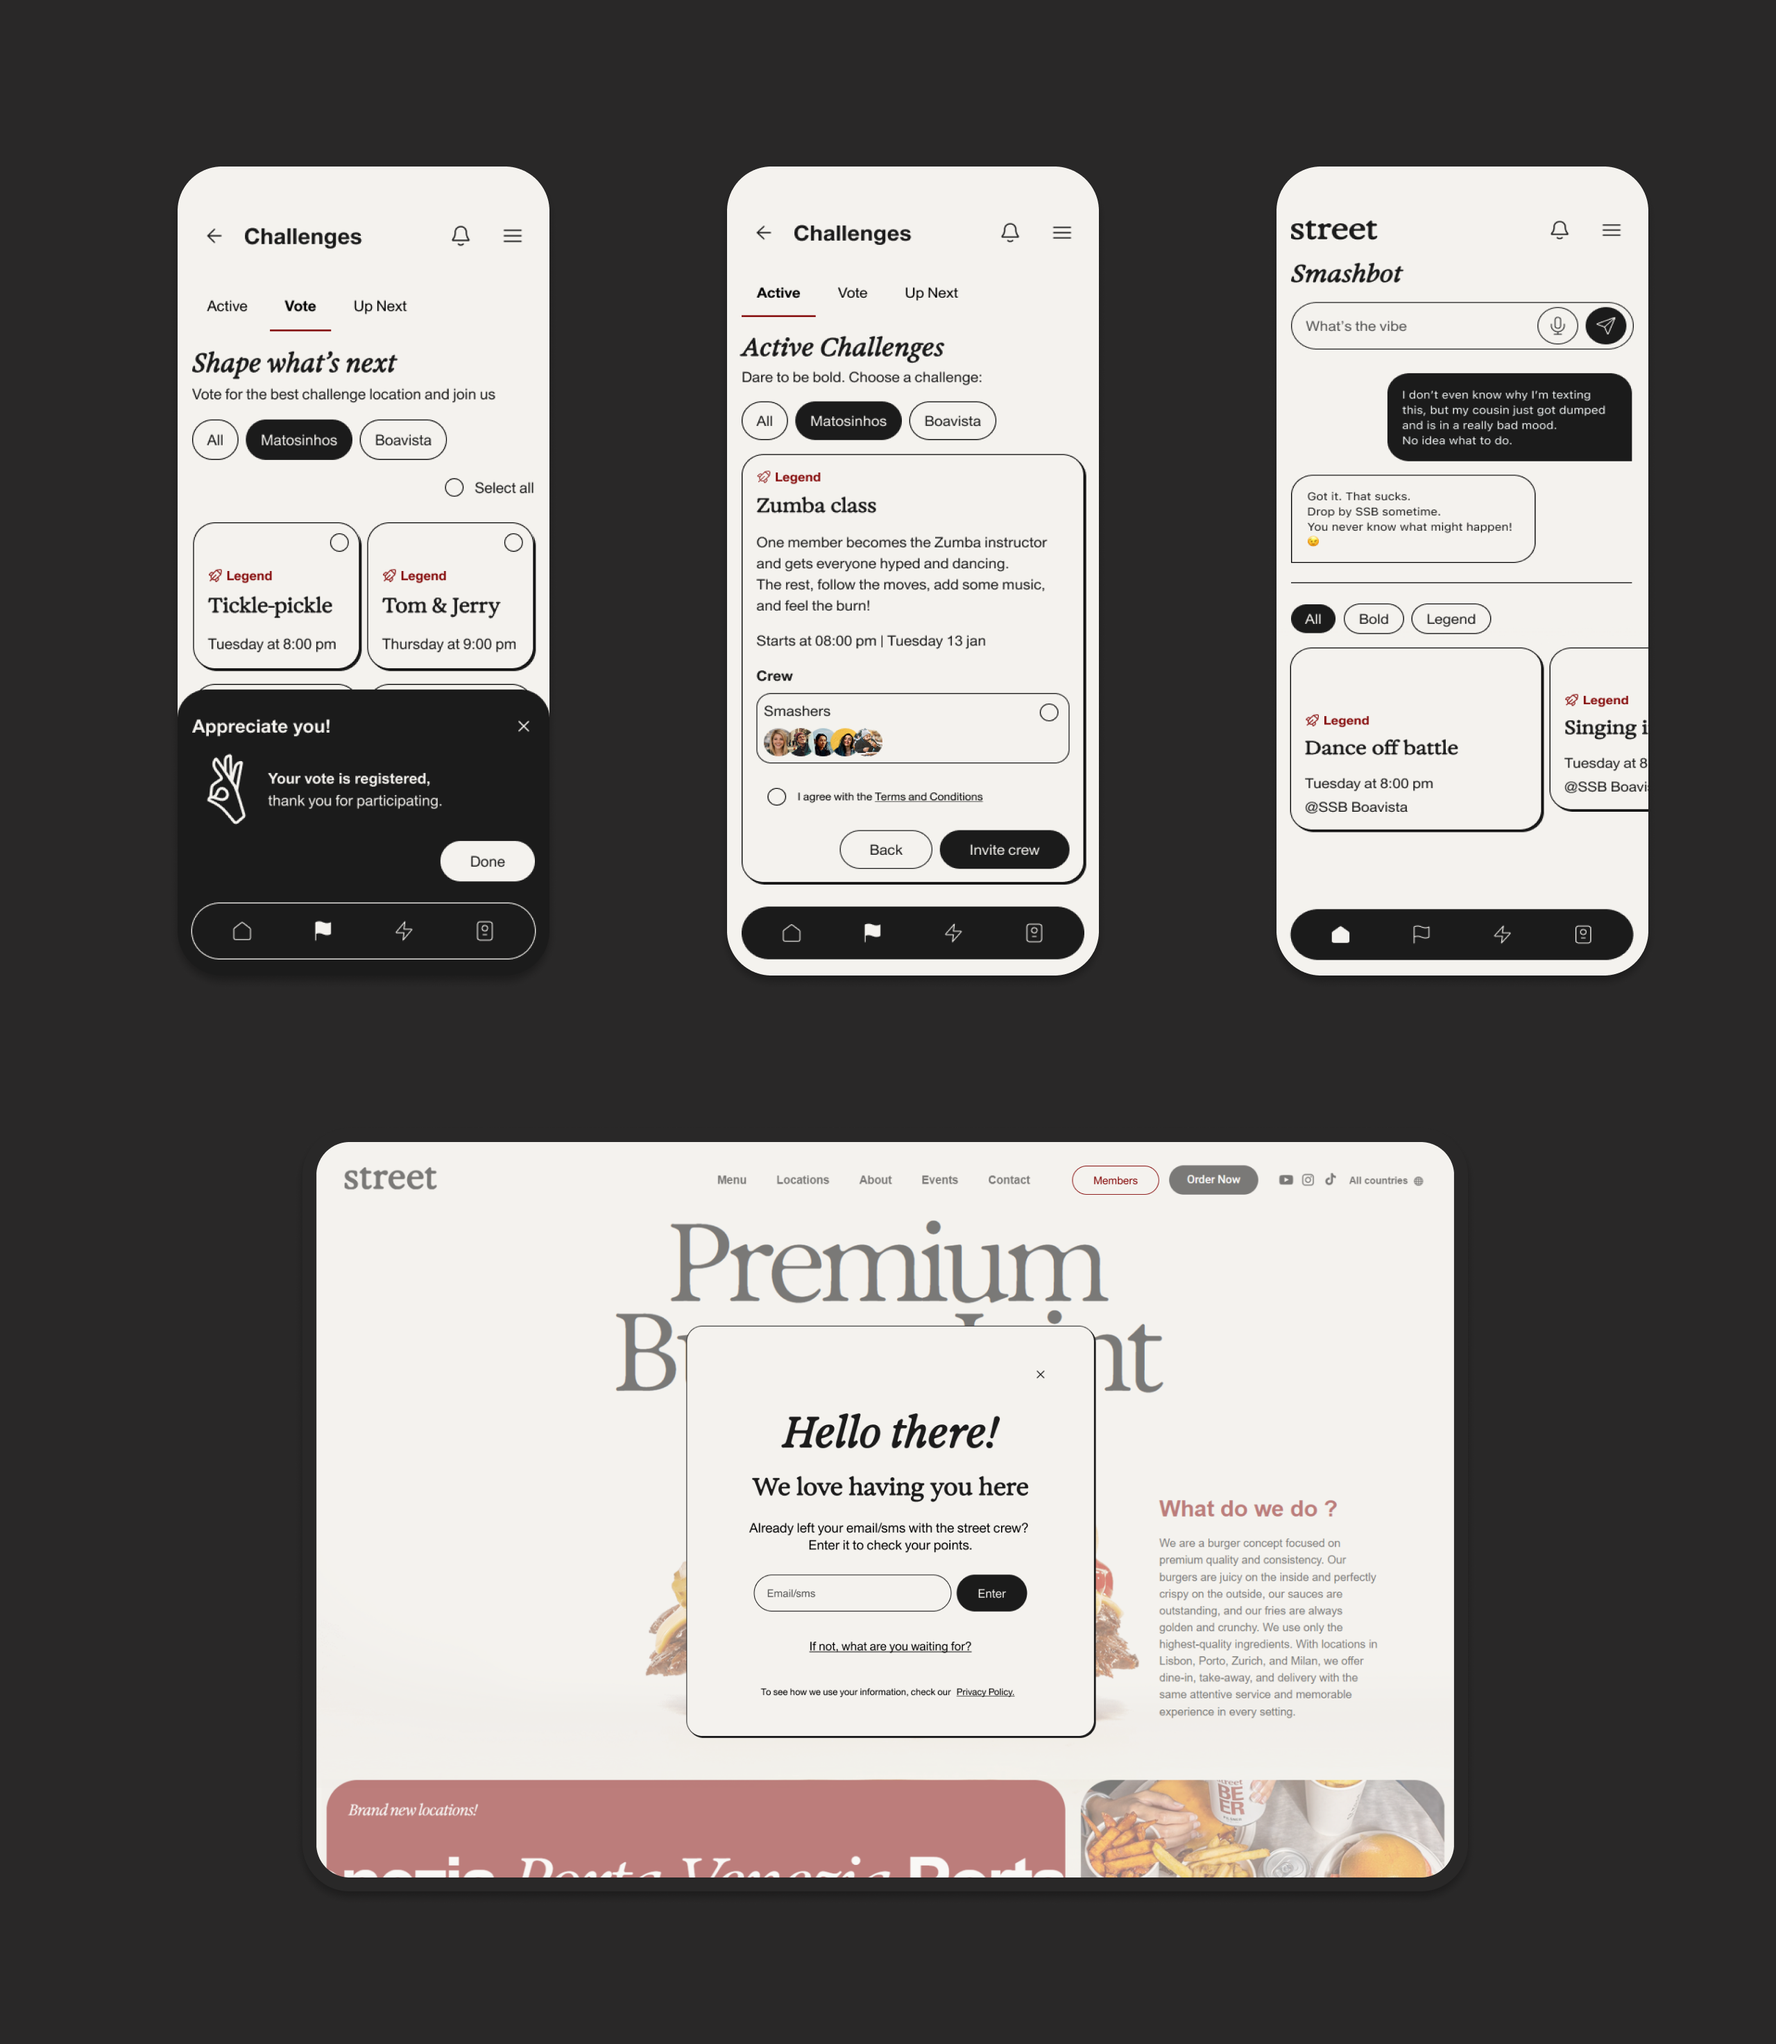
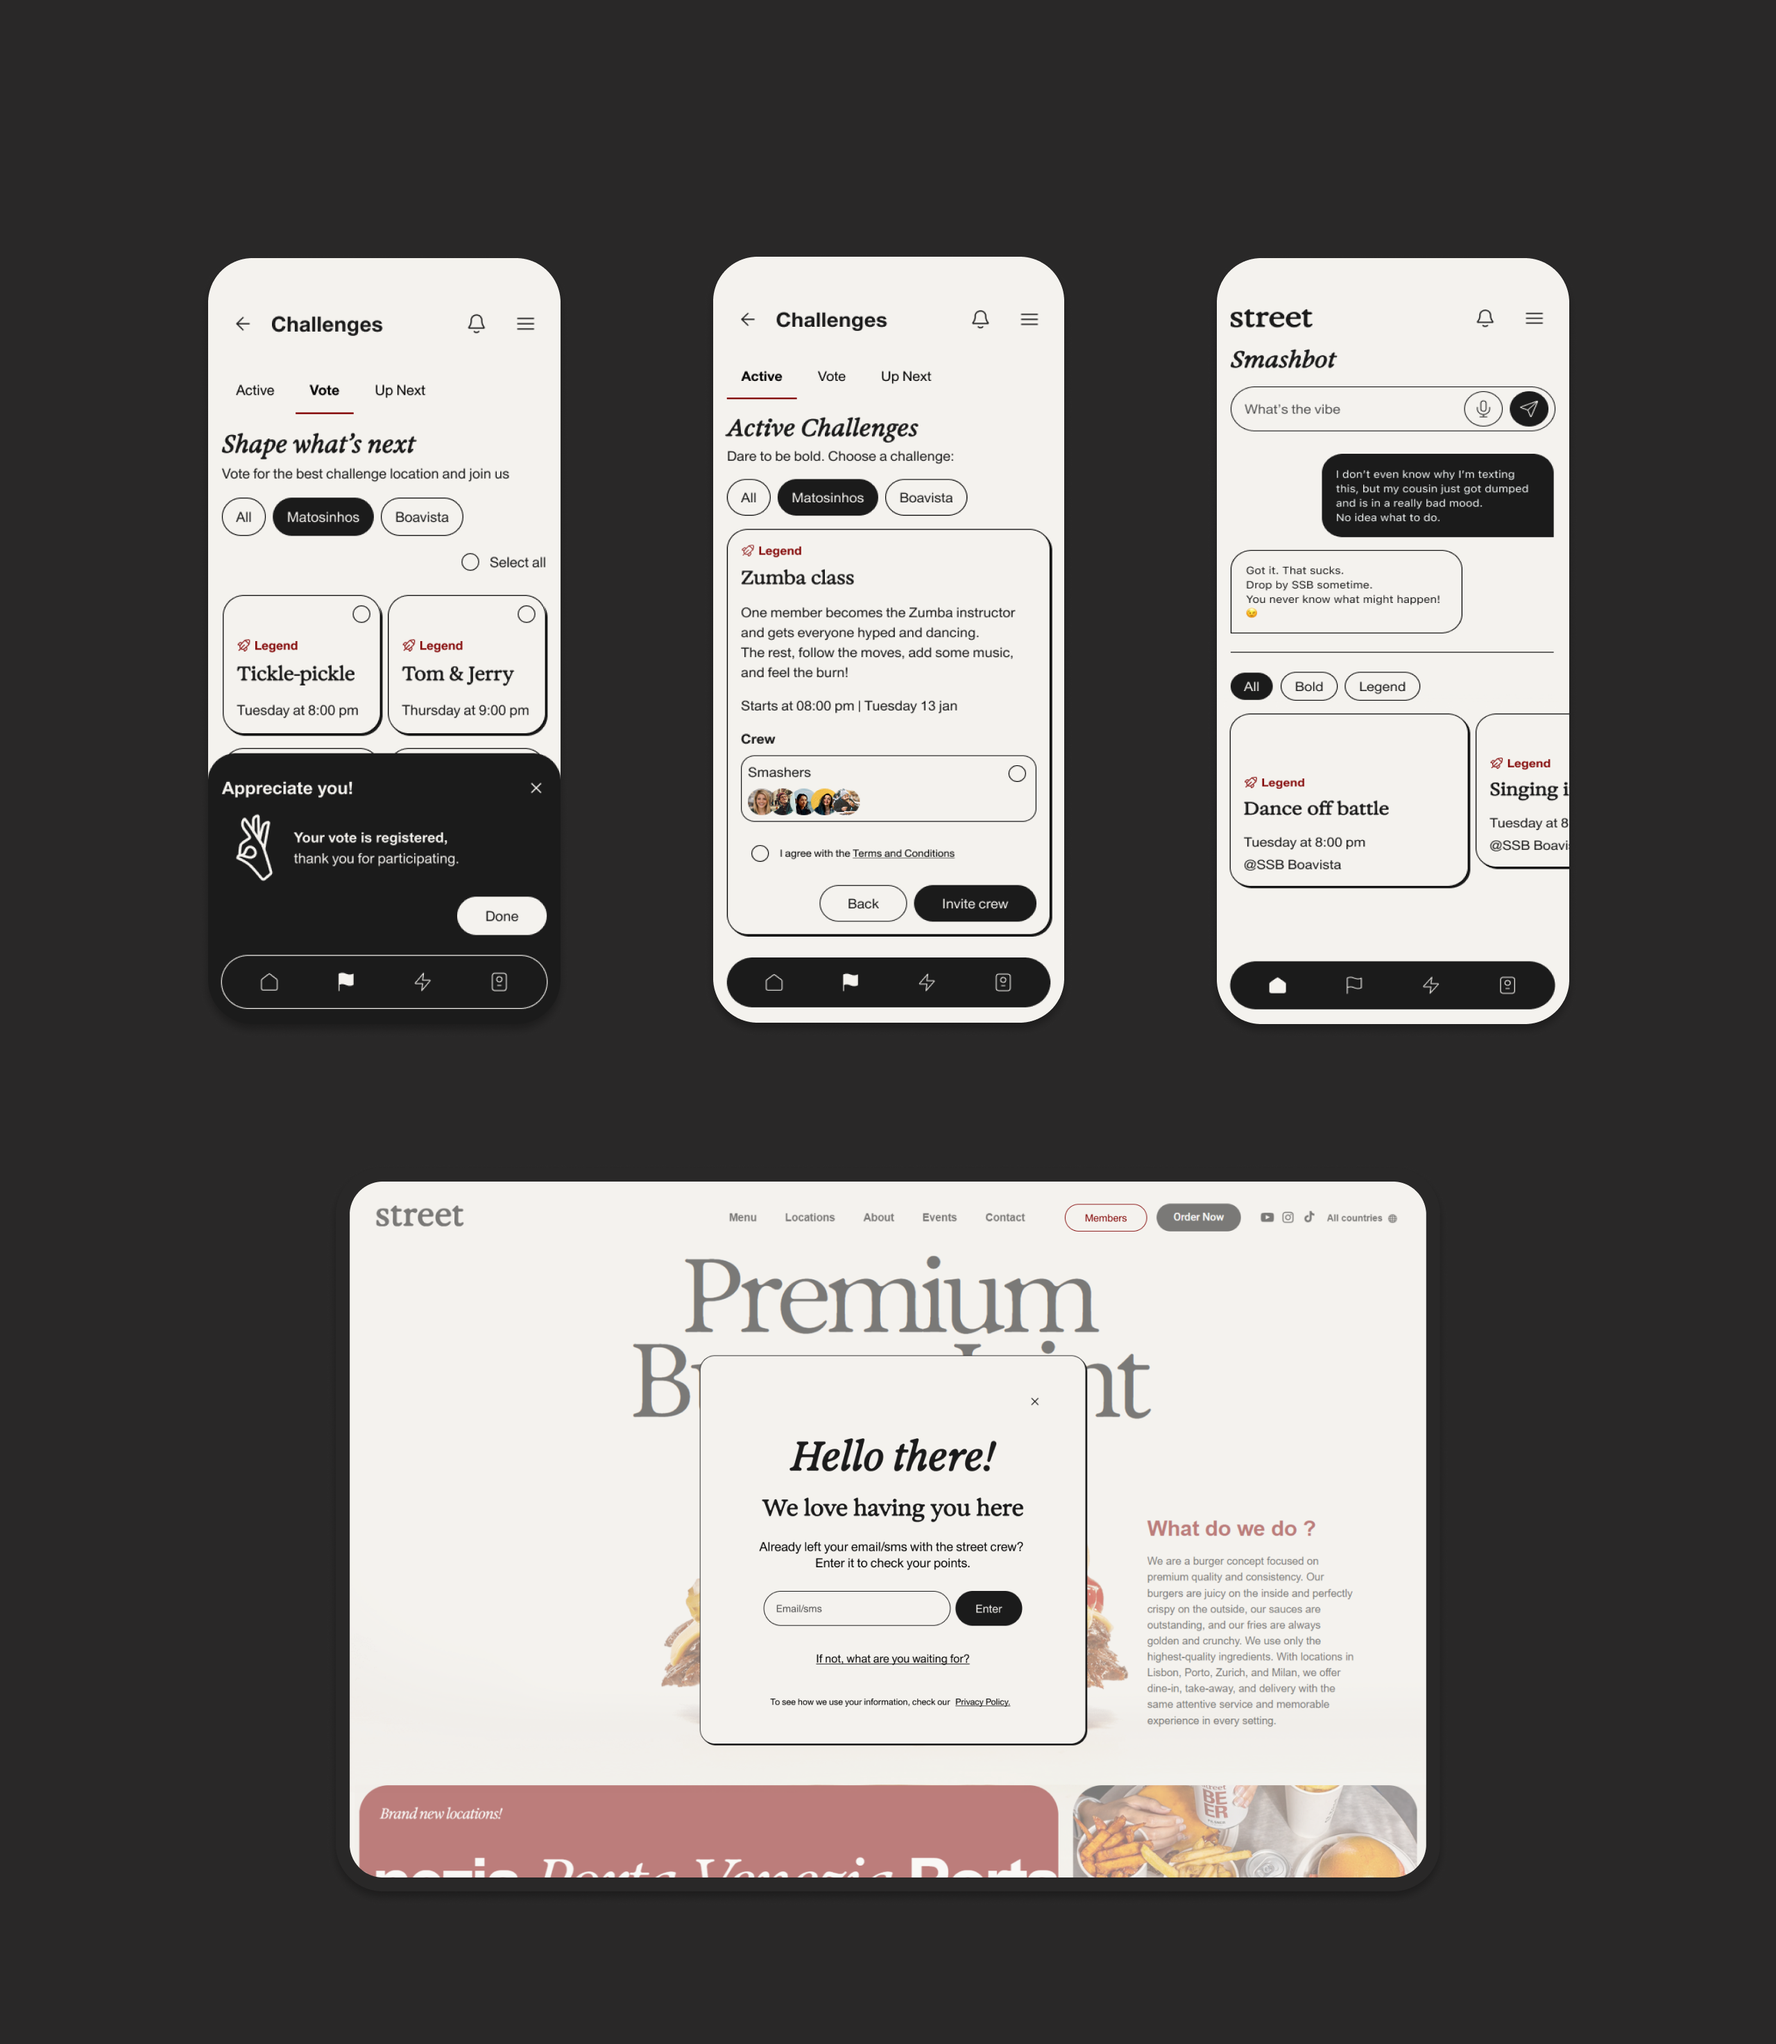
Update portfolio pages

diff --git a/src/routes/project.mindfull.tsx b/src/routes/project.mindfull.tsx
@@ -179,6 +179,12 @@ const connectingFeatures: string[] = [
   "Users can unlock personalized content with credits, giving them the freedom to explore at their own pace while ensuring professionals are fairly rewarded",
 ];
 
+const publishing: string[] = [
+  "Web plataform for publishing and managing content",
+  "Landing page to introduce the product while serving as an entry point for professionals",
+  "Dashboard centralizes key actions",
+];
+
 {
   /* Research 
   
@@ -443,7 +449,7 @@ function MindfullPage() {
                 Publishing system for specialists
               </h2>
               <ul className="mt-8 space-y-4">
-                {features.map((f) => (
+                {publishing.map((f) => (
                   <li key={f} className="flex items-start gap-3">
                     <svg
                       viewBox="0 0 24 24"
@@ -479,8 +485,8 @@ function MindfullPage() {
         <section className="mx-auto mt-20 max-w-5xl px-8">
           <InfoBox
             label="Takeaways"
-            primary="Research guided every decicion, ensuring our solution was evidence-based. We designed the app and website with a focus on an intuitive user experience, applying principles of acessibility, consistency, and clear visual hierarchy."
-            secondary="The development of this project highlighted the importance of clear objectives, strong communication, and close, collaboration, especially when working under tight contraints."
+            primary="Research guided every decision, ensuring our solution was evidence-based. We designed the app and website with a focus on an intuitive user experience, applying principles of acessibility, consistency, and clear visual hierarchy."
+            secondary="The development of this project highlighted the importance of clear objectives, strong communication, and close collaboration, especially when working under time contraints."
           />
         </section>
 

diff --git a/src/routes/about.tsx b/src/routes/about.tsx
@@ -72,7 +72,7 @@ function AboutPage() {
       <section className="flex flex-wrap justify-center gap-12 px-8 pt-8 text-left text-[13px] md:gap-20">
         <div>
           <p className="text-white">EDUCATION</p>
-          <p className="text-white/80">Ba in Communication Design @FBAUP</p>
+          <p className="text-white/80">BA in Communication Design @FBAUP</p>
           <p className="text-white/80">UX/UI Course @EDIT Porto</p>
         </div>
         <div>
@@ -162,22 +162,8 @@ function AboutPage() {
                   Work
                 </Link>
               </li>
-              <li>
-                <Link
-                  to="/about"
-                  className="hover:text-[#4000FF] hover:underline hover:underline-offset-4"
-                >
-                  About
-                </Link>
-              </li>
-              <li>
-                <a
-                  href="mailto:beatrizalvescunha1@gmail.com"
-                  className="hover:text-[#4000FF] hover:underline hover:underline-offset-4"
-                >
-                  Contact
-                </a>
-              </li>
+
+            
             </ul>
             <ul className="space-y-3">
               <li>
@@ -206,11 +192,7 @@ function AboutPage() {
         <div className="mt-20 flex items-end justify-between text-xs">
           <div className="flex items-end gap-3">
             <img src={footerSvgabout} alt="Beatriz Alves Cunha" className="h-12 w-auto" />
-            <p className="leading-tight text-white/80">
-              @2026 Portfolio
-              <br />
-              The Neverending Project
-            </p>
+            
           </div>
 
           <p className="text-white/80">

diff --git a/src/routes/project.gorreana.tsx b/src/routes/project.gorreana.tsx
@@ -62,7 +62,7 @@ function GorreanaPage() {
           <aside className="md:col-span-6 pl-8">
             <div className="md:sticky md:top-28 space-y-8 text-[16px] leading-[1.7] text-black">
               <p className="indent-12">
-                Gorrweana tea is produced at the oldest tea plantation in Europe, Azores, and is
+                Gorreana tea is produced at the oldest tea plantation in Europe (Azores), and is
                 widely recognized for its quality and organic traditional production methods.
               </p>
               <p className="indent-12">
@@ -150,7 +150,7 @@ function GorreanaPage() {
         </section>
 
         <ProjectNav
-          prev={{ to: "/work", label: "Previous work" }}
+          prev={{ to: "/project/final", label: "Previous project" }}
           next={{ to: "/project/stationery", label: "Next project" }}
         />
       </main>

diff --git a/src/routes/project.stationery.tsx b/src/routes/project.stationery.tsx
@@ -4,6 +4,7 @@ import { ProjectNav } from "../components/project-nav";
 import wedding1 from "@/assets/wedding1.jpg";
 import wedding2 from "@/assets/wedding2.jpg";
 import wedding3 from "@/assets/wedding3.jpg";
+import wedding4 from "@/assets/wedding4.jpg";
 
 export const Route = createFileRoute("/project/stationery")({
   head: () => ({
@@ -84,6 +85,14 @@ function StationeryPage() {
             <figure className="overflow-hidden">
               <img
                 src={wedding3}
+                alt="Save the date"
+                className="w-full h-auto block"
+                loading="lazy"
+              />
+            </figure>
+                        <figure className="overflow-hidden">
+              <img
+                src={wedding4}
                 alt="Save the date"
                 className="w-full h-auto block"
                 loading="lazy"

diff --git a/src/routes/project.ssb.tsx b/src/routes/project.ssb.tsx
@@ -142,8 +142,10 @@ const processColumns: { title: string; items: string[] }[] = [
   },
   {
     title: "Test (building)",
-    items: ["UI Kit, Prototype"],
+    items: ["UI Kit", 
+           "Prototype", ],
   },
+  
 ];
 
 const simplicity: string[] = [
@@ -154,7 +156,7 @@ const simplicity: string[] = [
 ];
 
 const experience: string[] = [
-  "Smashbot to generate fun in-store challenges with users prompts",
+  "Smashbot to generate fun in-store challenges with users' prompts",
   "Discover, create, vote on, and register for in-store challenges",
   "Foster a sense of community and brand loyalty by creating memorable, emotionally engaging experiences",
   "Individual or crew-based challenges",

diff --git a/src/routes/index.tsx b/src/routes/index.tsx
@@ -56,8 +56,8 @@ function Index() {
       <main>
         <section className="flex flex-col items-center px-6 pt-44">
           <p className="hero-text text-center text-[18px] text-black">
-            (communication design
-            <br />& ux/ui design)
+            (communication designer
+            <br />& ux/ui designer)
           </p>
 
           <div className="scroll-indicator">
